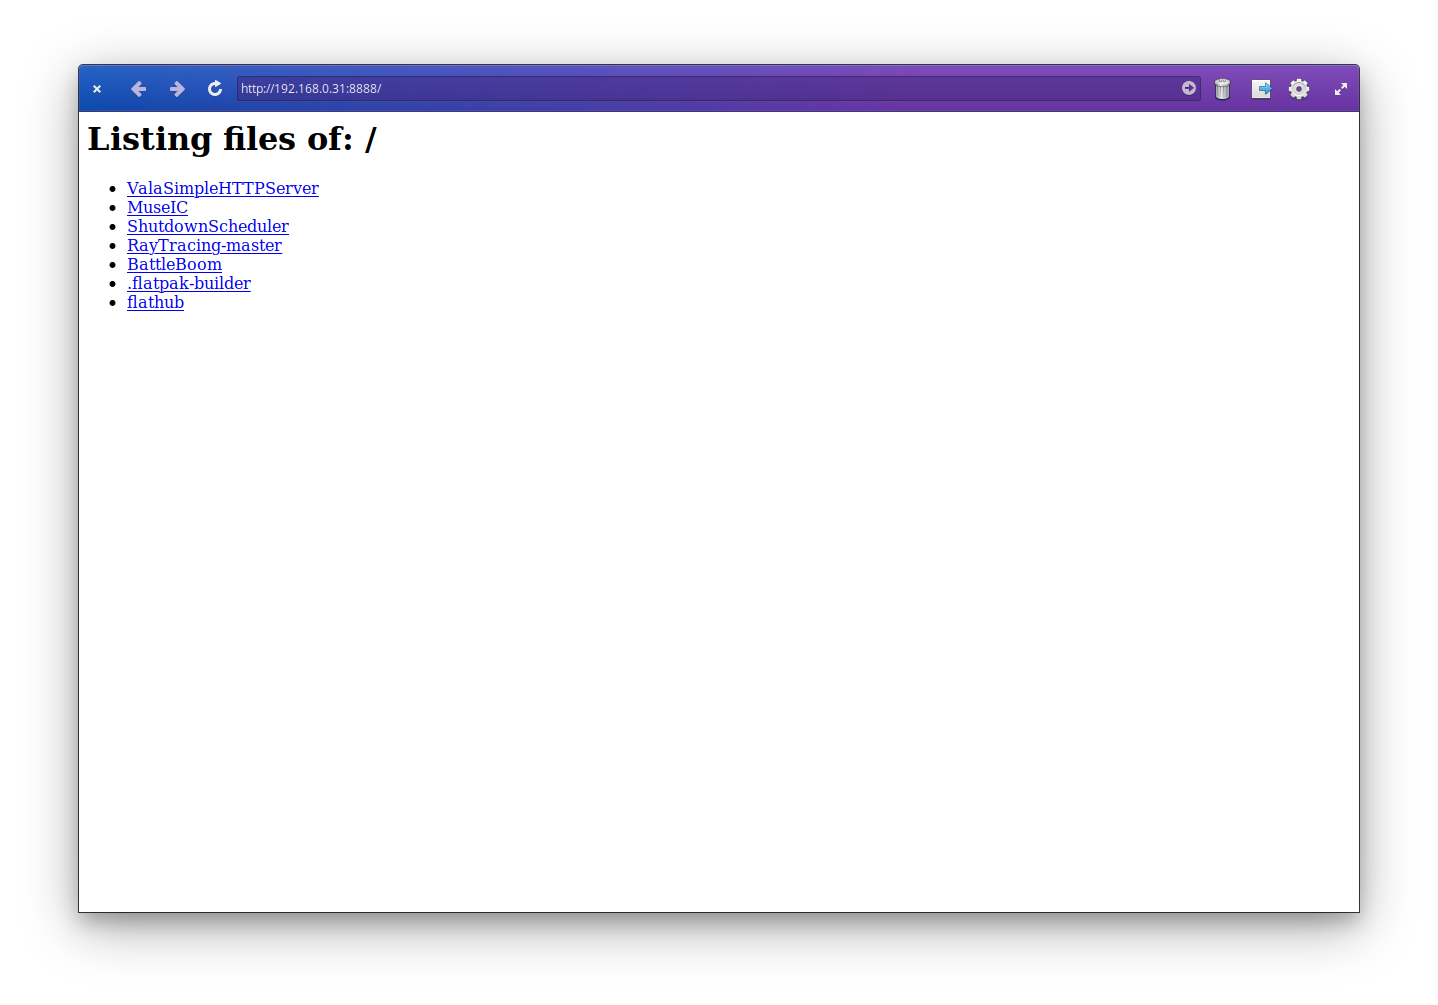
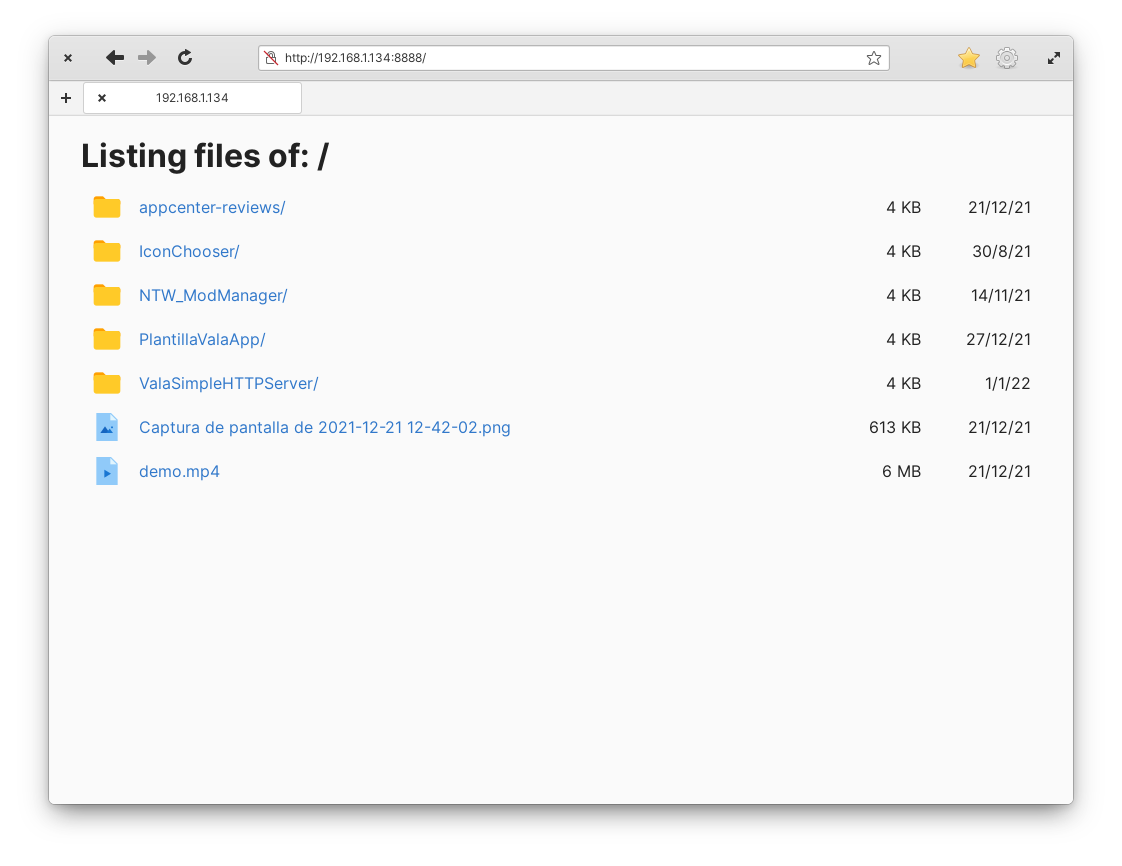
Bump to v1.6.0

diff --git a/README.md b/README.md
@@ -21,6 +21,10 @@ Do you have a film in the computer and you want to watch it on the mobile phone?
 
 VServer is "inspired" in the well known python SimpleHTTPServer.
 
+## Credits
+
+Special thanks to @amka (https://github.com/amka) for his work on the web navigation!
+
 
 ## Installation
 
